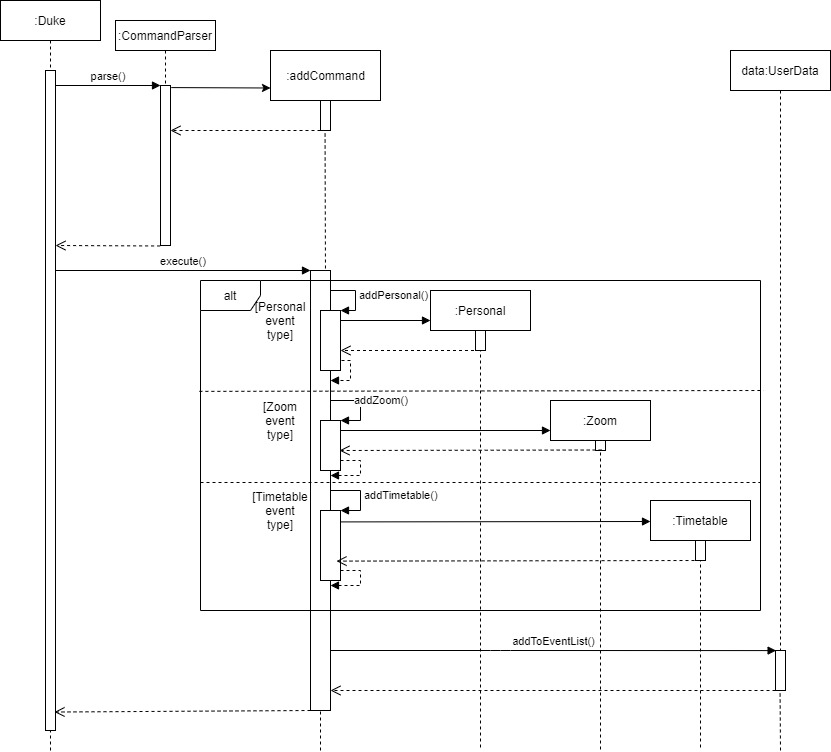
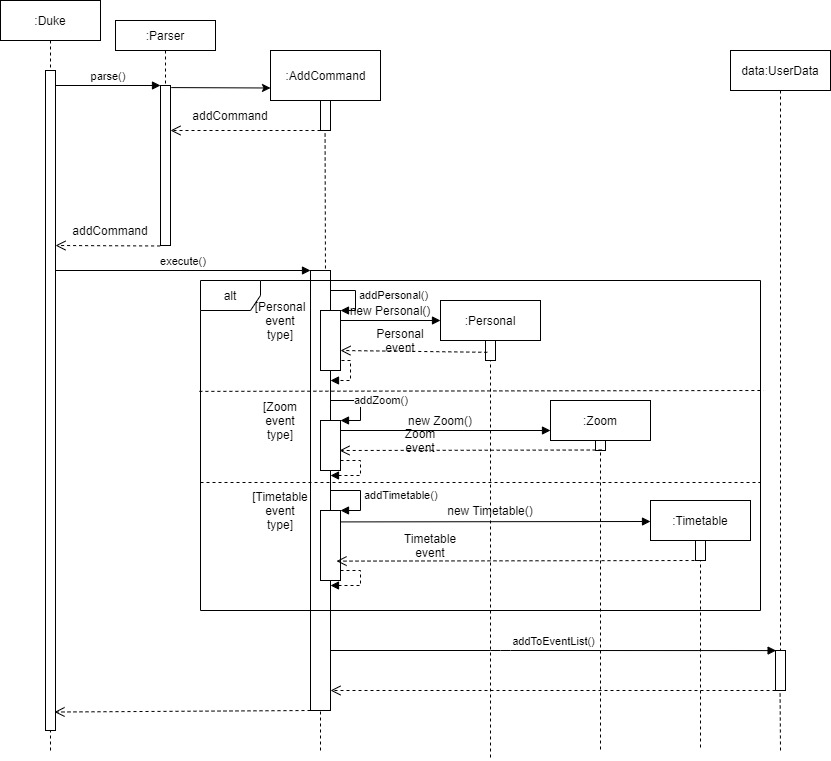
Updated Developerguide for extract, fixed addcommand picture, added extractcommand picture

diff --git a/src/main/java/seedu/duke/command/ExtractCommand.java b/src/main/java/seedu/duke/command/ExtractCommand.java
@@ -175,15 +175,6 @@ public class ExtractCommand extends Command {
             if (time.contains(".")) {
                 time = time.replaceAll("\\.", ":");
             }
-            if (time.contains("PM") || time.contains("AM")) {
-                if (!time.contains(" ")) {
-                    // adds space between AM/PM for it to work with parser later
-                    time = time.substring(0, time.length() - 2) + " " + time.substring(time.length() - 2);
-                }
-                if (!time.contains(":")) {
-                    time = time.substring(0, time.length() - 3) + ":00 " + time.substring(time.length() - 2);
-                }
-            }
             time = time.toLowerCase();
             timeListInString.add(time);
         }

diff --git a/docs/DeveloperGuide.md b/docs/DeveloperGuide.md
@@ -171,9 +171,10 @@ Firstly, to begin, the user needs to key in the add command with the general for
 The optional fields to fill in like the link and location for the zoom and timetable classes can be inserted respectively in the position right after the description field. For example,
 `add zoom; cs2113t meeting; zoom.sg; 16/09/20; 2100`
 
-When a command like this is called, the constructor to `addCommand` will be able to detect the event type based on the user's input. It then stores the event type in that instance of the addCommand.
+When a command like this is called, the constructor to `AddCommand` will be able to detect the event type based on the user's input. It then stores the event type in that instance of the addCommand.
 
-Next, when `addCommand#execute` is called from the main, this method will call the respective method to create one of the three events. These methods are `addCommand#addPersonal`, `addCommand#addZoom`, and `addCommand#addTimetable`.
+Next, when `AddCommand#execute()` is called from the main, this method will call the respective method to create one of the three events. These methods are `AddCommand#addPersonal()`, `AddCommand#addZoom()`, and `AddCommand#addTimetable()`.
+These methods are then used to create events based on the number of fields/parameters entered by the user. Each event has multiple constructors and can contain different combinations of fields which will be stated below.
 
 The personal event can contain the following fields: 
 - Description 
@@ -210,9 +211,9 @@ Step 1. The user launches the application for the first time. There will be no e
  
 Step 2. The user inputs `add zoom; cs2113t meeting; zoom.sg; 16/09/20; 2100`. The `addCommand` instance is created and detects that the event is of Zoom type.
  
-Step 3. `addCommand#execute` is called. The class knows the current addCommand is of Zoom type so it calls `addCommand#addZoom`.
+Step 3. `addCommand#execute()` is called. The class knows the current addCommand is of Zoom type so it calls `addCommand#addZoom()`.
  
-Step 4. `addCommand#addZoom` detects there are 4 fields in the command, separated by semicolons, and uses this to create a new Zoom event.
+Step 4. `addCommand#addZoom()` detects there are 4 fields in the command, separated by semicolons, and uses this to create a new Zoom event.
  
 Step 5. The Zoom event is then added to the user's `UserData` for further use.
  
@@ -407,7 +408,33 @@ The following sequence diagram shows how `GoalCommand#execute()` works:
 (WIP)
 
 #### Extract feature
-(WIP)
+The extract feature allows users to copy and paste a body of text like emails and it will help users create either
+a Zoom or a Personal event. It utilizes Regular Expressions (Regex) patterns in order to match dates, times and zoom links
+in the text entered. 
+
+Given below is an example usage scenario to explain how the extract feature works.
+
+Step 1. To begin, the user enters `extract CS2113T Quiz;`. 
+The constructor for `ExtractCommand` will then be called and the `TEXT_SUBJECT` which is `CS2113T Quiz` will be stored in that instance of ExtractCommand.
+
+Step 2. Next, `ExtractCommand#execute()` is called from the main. This method will call `ExtractCommand#receiveTextBody()` which will let the user enter any text and only ends once the user types `extractend` on a new line.
+The user may then input a text copied from email, for example `The quiz will be on October 8 2020 or 9th October at 4pm or 5pm. The zoom link is at nus-sg.zoom.com`. After going to the next line, the user has to type `extractend`.
+This is saved as the `textBody` in this instance of `ExtractCommand`. 
+
+Step 3. The `textBody` is then used in multiple methods. These include `ExtractCommand#detectZoomLink()`, `ExtractCommand#detectDate()` and `ExtractCommand#detectTime()` which will use Regex patterns to find and match dates, times and zoom links.
+
+Step 4. `ExtractCommand#verifyDate()` and `ExtractCommand#verifyTime()` will be called which will return dates and times that are valid.
+
+Step 5. `ExtractCommand#chooseZoomLink()`, `ExtractCommand#chooseDate()` and `ExtractCommand#chooseTime()` will be called and will print out a list of valid zoom links/dates/times and allow the user to input the number of the link/date/time they want to select it.
+
+Step 6. If the event has a zoom link, a `Zoom` event will be created using the link, date, time and `TEXT_SUBJECT` as its description. Otherwise, a `Personal` event will be created with the date, time and description fields. The event will be added to the user's `UserData`.
+
+The following sequence diagram shows how the Extract Feature works in general:
+
+![Sequence Diagram for Extract Command](./diagrams/extractCommand.jpg)
+
+
+
 
 
  
